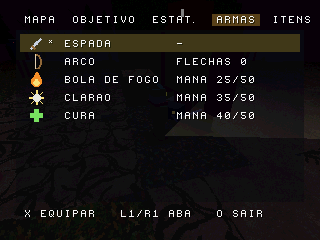
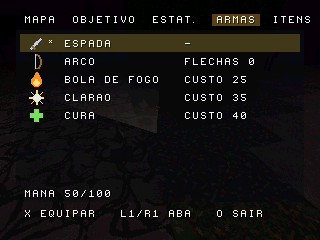
menu: revisão das capturas (CUSTO nas magias, colunas alinhadas, % legível, tronco amarelo, sem linha repetida)
A marca branca e o 'tronco' da captura do jogo eram o GRANDE colado ao
jogador (olho sem luz no alto da tela): ./dev capturas espera não haver
inimigo a menos de 3 m. Só visual: replay-test e robo-test IGUAL.

diff --git a/src/menu.c b/src/menu.c
@@ -127,7 +127,9 @@ static void draw_goal(void) {
 	int y = PY + 10;
 	hud_print(PX + 8, y, "FASE %d: %s", g.level + 1, ld->name);     y += 16;
 	hud_print(PX + 8, y, "%s", ld->obj_text);                       y += 20;
-	hud_print(PX + 8, y, "AGORA: %s", objective_text());             y += 12;
+	if (g.has_exit && g.exit_open) {   /* só quando muda o que fazer; senão repetiria a linha abaixo */
+		hud_print(PX + 8, y, "AGORA: VA ATE A SAIDA");               y += 12;
+	}
 	switch (ld->objective) {
 	case OBJ_KILL_ALL:
 		hud_print(PX + 8, y, "INIMIGOS RESTANTES: %d", g.enemies_left); y += 12;
@@ -181,11 +183,15 @@ static void draw_weapons(void) {
 		switch (w->ammo) {
 		case AMMO_ARROW:  snprintf(ammo, sizeof(ammo), "FLECHAS %d", p->arrows); break;
 		case AMMO_BULLET: snprintf(ammo, sizeof(ammo), "BALAS %d", p->bullets); break;
-		case AMMO_MANA:   snprintf(ammo, sizeof(ammo), "MANA %d/%d", w->cost, p->energy); break;
+		case AMMO_MANA:   snprintf(ammo, sizeof(ammo), "CUSTO %d", w->cost); break;
 		default:          snprintf(ammo, sizeof(ammo), "-"); break;
 		}
-		hud_print(PX + 32, y, "%c %-13s %s", list[i] == p->weapon ? '*' : ' ', w->name, ammo);
+		/* colunas em x fixo (um hud_print por coluna): alinham com qualquer nome */
+		hud_print(PX + 32, y, "%c", list[i] == p->weapon ? '*' : ' ');
+		hud_print(PX + 48, y, "%s", w->name);
+		hud_print(PX + 168, y, "%s", ammo);
 	}
+	hud_print(PX + 8, PY + 10 + 8 * 18 + 6, "MANA %d/%d", p->energy, PLAYER_MAX_ENERGY);
 }
 
 static void draw_items(void) {
@@ -197,11 +203,12 @@ static void draw_items(void) {
 			icon(16 * (s->type - 1), PX + 24, y - 5);
 		if (i == g.menu_cursor)
 			render_rect(PX + 4, y - 6, PW - 8, 18, 70, 60, 30, 0);
-		if (s->type == IT_NONE)
-			hud_print(PX + 10, y, "%d", i + 1);
-		else
-			hud_print(PX + 10, y, "%d    %-13s X%d %s", i + 1, item_defs[s->type].name, s->count,
-			          item_defs[s->type].desc);
+		hud_print(PX + 10, y, "%d", i + 1);
+		if (s->type != IT_NONE) {          /* colunas em x fixo: alinham com qualquer nome */
+			hud_print(PX + 48, y, "%s", item_defs[s->type].name);
+			hud_print(PX + 160, y, "X%d", s->count);
+			hud_print(PX + 192, y, "%s", item_defs[s->type].desc);
+		}
 	}
 	y += 6;
 	hud_print(PX + 8, y, "VIDA %d/%d  MANA %d  PILHA %d%%", p->hp, p->max_hp, p->energy,
@@ -220,7 +227,7 @@ enum { MC_NONE, MC_UNSEEN, MC_DIRT, MC_LEAVES, MC_ROOTS, MC_THICKET, MC_BARRIER,
 #define RGB15(r, gg, b) (uint16_t)(((r) >> 3) | (((gg) >> 3) << 5) | (((b) >> 3) << 10))
 static const uint16_t map_clut[16] = {
 	0, RGB15(14, 14, 18), RGB15(150, 115, 70), RGB15(60, 85, 45), RGB15(110, 80, 50),
-	RGB15(25, 55, 25), RGB15(140, 70, 35), RGB15(10, 32, 12), RGB15(170, 120, 60), RGB15(6, 6, 6),
+	RGB15(25, 55, 25), RGB15(140, 70, 35), RGB15(10, 32, 12), RGB15(240, 225, 110), RGB15(6, 6, 6),
 };
 static uint8_t map_pix[128 * 128 / 2];
 static uint32_t map_sig = 0xffffffffu;
@@ -300,7 +307,7 @@ void menu_draw_map(void) {
 	render_rect(lx, y + 1, 6, 6, 200, 100, 255, 0);  hud_print(lx + 10, y, "RELIQUIA");  y += 12;
 	render_rect(lx, y + 1, 6, 6, 150, 115, 70, 0);   hud_print(lx + 10, y, "TRILHA");    y += 12;
 	render_rect(lx, y + 1, 6, 6, 25, 55, 25, 0);     hud_print(lx + 10, y, "MATA");      y += 12;
-	render_rect(lx, y + 1, 6, 6, 170, 120, 60, 0);   hud_print(lx + 10, y, "TRONCO");    y += 20;
+	render_rect(lx, y + 1, 6, 6, 240, 225, 110, 0);  hud_print(lx + 10, y, "TRONCO");    y += 20;
 	if (map_row >= 128) hud_print(lx, y, "VISTO %d%%", map_seen_pct);
 }
 

diff --git a/src/render.c b/src/render.c
@@ -972,6 +972,17 @@ void hud_print(int x, int y, const char *fmt, ...) {
 	/* cada letra vira um sprite de 8x8 (~16 bytes); garante espaço */
 	if (nextpri + 24 * 96 >= fb[cur].pkt + PACKET_LEN)
 		return;
+	/* O "%" da fonte embutida parece um "x": troca por espaço e desenha um
+	 * "%" próprio (dois pontos 2x2 e uma diagonal) na mesma célula 8x8. */
+	for (int i = 0; buf[i]; i++) {
+		if (buf[i] != '%') continue;
+		buf[i] = ' ';
+		int cx = x + i * 8, cy = y;
+		render_rect(cx, cy, 2, 2, 255, 255, 255, 0);
+		render_rect(cx + 5, cy + 5, 2, 2, 255, 255, 255, 0);
+		for (int k = 0; k < 7; k++)
+			render_rect(cx + 6 - k, cy + k, 1, 1, 255, 255, 255, 0);
+	}
 	nextpri = (uint8_t *)FntSort(fb[cur].ot, nextpri, x, y, buf);
 }
 

diff --git a/src/main.c b/src/main.c
@@ -1810,6 +1810,14 @@ static void robot_after_tick(void) {
 	if (robot_over) return;
 #ifdef ROBOT_SHOTS
 	if (g.play_frames >= SHOT_AT || g.state == STATE_WIN || g.state == STATE_DEAD) {
+		/* foto representativa: espera (até +30 s) não haver inimigo a menos de
+		 * 3 m do jogador (um GRANDE colado tapava o personagem na 1a versão) */
+		int close = 0;
+		for (int i = 0; i < MAX_ENEMIES; i++)
+			if (g.enemies[i].active && dist2d(g.enemies[i].pos.vx - g.players[0].pos.vx,
+			                                  g.enemies[i].pos.vz - g.players[0].pos.vz) < 3 * TILE_SIZE)
+				close = 1;
+		if (close && g.state == STATE_PLAY && g.play_frames < SHOT_AT + 30 * 60) return;
 		robot_shots();
 		return;
 	}

diff --git a/docs/HISTORICO.md b/docs/HISTORICO.md
@@ -783,3 +783,16 @@ automatizar testes visuais.
   1,2 MB. `./dev capturas`: o robô joga 75 s da f3 e grava
   `docs/capturas/08-{jogo,mapa,objetivo,estatisticas,armas,itens}.png`
   (StoreImage → TTY → PNG). Opções (volume) ficam para a etapa 10/01b.
+- 2026-10-11 — Etapa 08, revisão das capturas pelo Marcos. O "tronco
+  escuro" que tapava o personagem em `08-jogo.png` era o **GRANDE** a 1 m
+  (perseguindo), não uma árvore: a transparência da 04d (só árvores entre
+  câmera e jogador) estava certa. A "marquinha branca" no alto era **um olho
+  do GRANDE** (quad sem luz; a cabeça escura saía da tela); confirmado
+  escondendo os olhos e listando os inimigos na hora da foto. Não era resto
+  de desenho: `./dev capturas` agora espera (até +30 s) não haver inimigo a
+  menos de 3 m. Ajustes só visuais (replay e robo IGUAL): Armas mostra
+  "CUSTO n" e a mana no rodapé; Itens e Armas em colunas de x fixo (um
+  `hud_print` por coluna); o "%" da fonte embutida parecia "x": o
+  `hud_print` troca por espaço e desenha um "%" próprio (2 pontos e uma
+  diagonal de `render_rect`); tronco no mapa em amarelo; Objetivo sem a
+  linha "AGORA" repetida (só aparece com a saída aberta).
